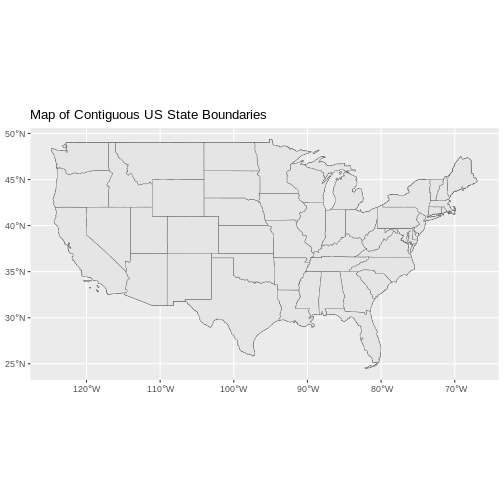
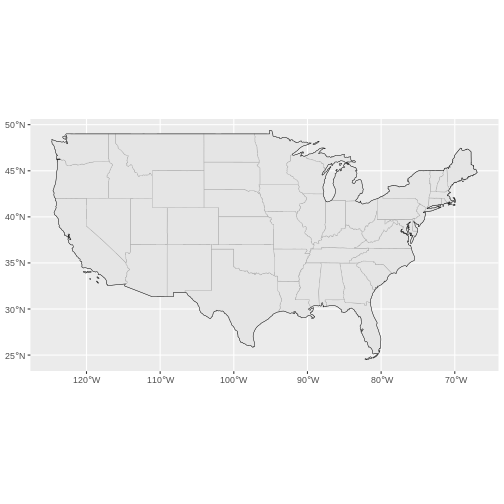
markdown source builds
Auto-generated via {sandpaper}
Source  : 6da65f334cc41897778f52575b2a22c6a264ebba
Branch  : main
Author  : kristi-sara <ksliu@ucsb.edu>
Time    : 2023-08-02 19:46:48 +0000
Message : changed error overlay error with boundaries

diff --git a/09-vector-when-data-dont-line-up-crs.md b/09-vector-when-data-dont-line-up-crs.md
@@ -156,13 +156,20 @@ boundaries and country boundaries.
 
 ```r
 ggplot() +
-  geom_sf(data = country_boundary_US, color = "gray18", size = 2) +
-  geom_sf(data = state_boundary_US, color = "gray40") +
+  geom_sf(data = state_boundary_US, color = "gray60") +
+  geom_sf(data = country_boundary_US, color = "black",alpha = 0.25,size = 5)
+```
+
+<img src="fig/09-vector-when-data-dont-line-up-crs-rendered-us-boundaries-thickness-1.png" style="display: block; margin: auto;" />
+
+```r
   ggtitle("Map of Contiguous US State Boundaries") +
   coord_sf()
 ```
 
-<img src="fig/09-vector-when-data-dont-line-up-crs-rendered-us-boundaries-thickness-1.png" style="display: block; margin: auto;" />
+```{.output}
+NULL
+```
 
 Next, let's add the location of a flux tower where our study area is.
 As we are adding these layers, take note of the CRS of each object.
